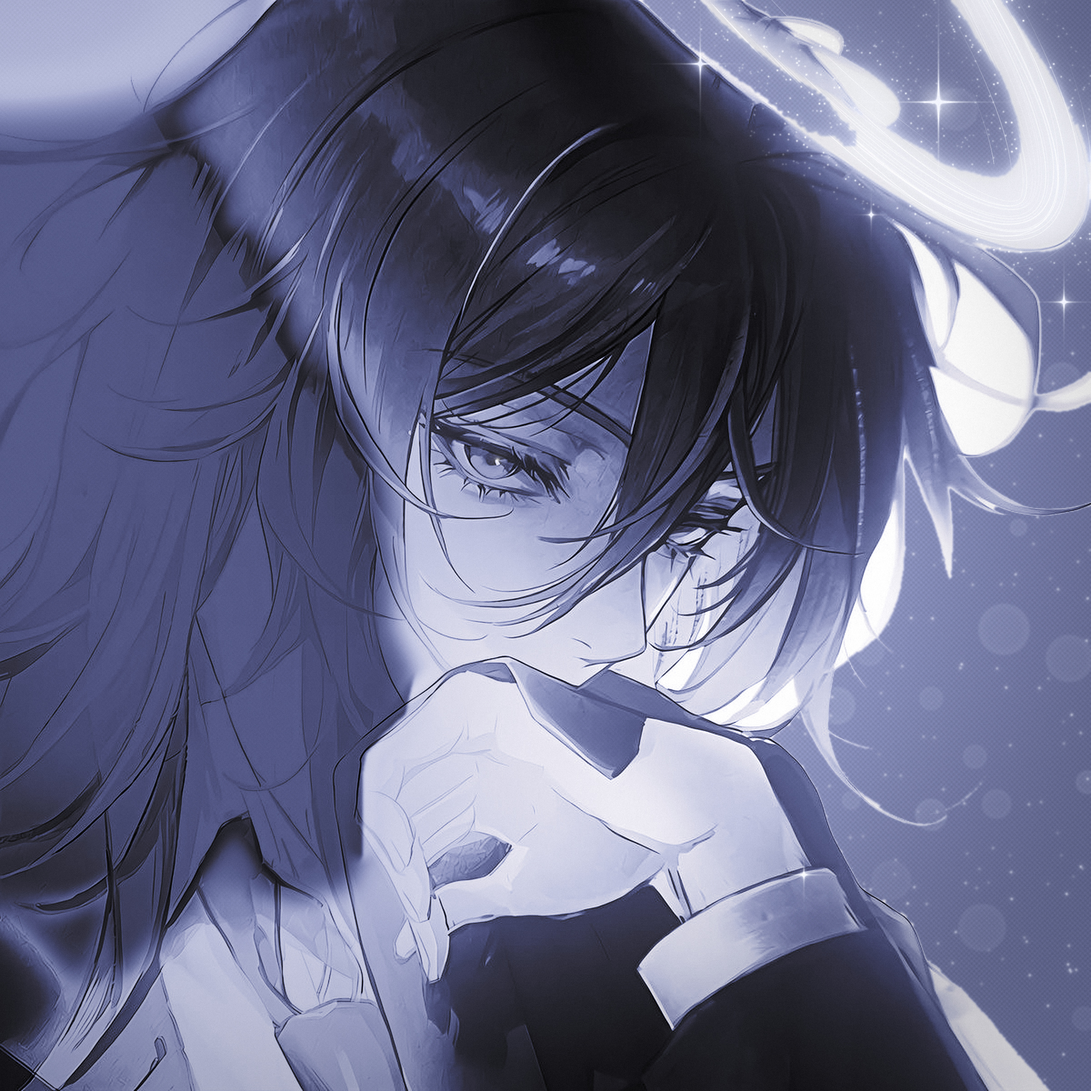
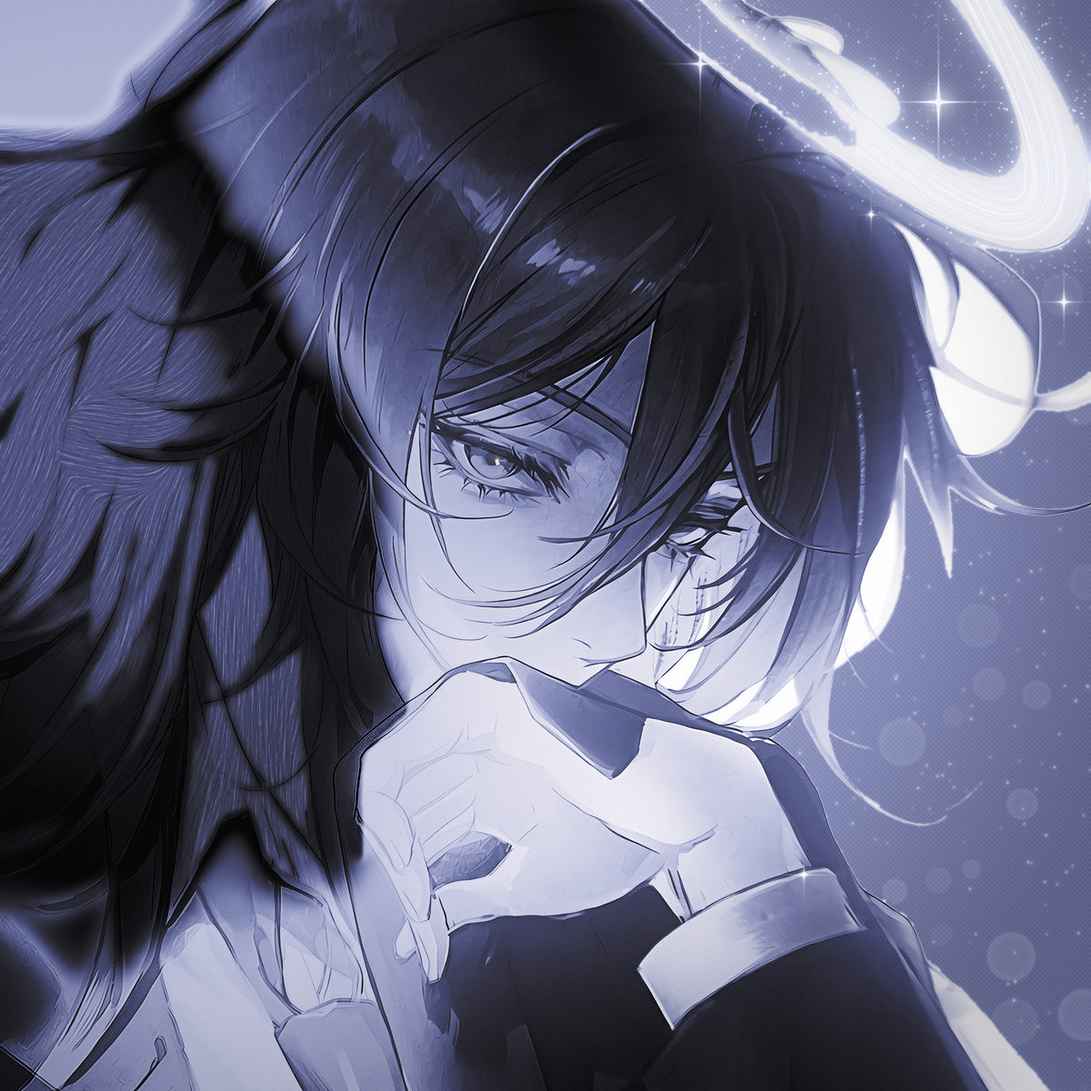
Anime art: paint the left hair as real dark hair
The user asked for the hair colour to be completed in a better way. The
previous pass darkened the backlit left hair with one tone curve, which
left it flat (5th-95th percentile 0.25-0.36), lighter than the crown
(median 0.33 vs 0.21) and with a lavender blob cut into the top-left.
The original there is blown-out white with only drawn lines, so the
shading has to be built:

- Hair area from strand texture (edge density, gaps up to 40 px closed,
  sky gaps under 8000 px treated as hair), still sharp along the hand.
- Volume: each clump darkens towards its drawn lines through a blurred
  line field (a distance to the dashed faint strokes made bead chains),
  lit through its middle, lighter towards the light and the outer edge.
- Detail: drawn lines redrawn crisp; fine fibres by line integral
  convolution along a structure-tensor flow smoothed at sigma 90 (at 8
  and 36 the flow wandered into mazes and a vortex in the wide clumps);
  soft glossy streaks in clump middles; rim light on the outer strands.

Left hair is now 0.05 / 0.23 / 0.39 (5th / 50th / 95th) against the
crown's 0.12 / 0.21 / 0.36.

Claude-Session: https://claude.ai/code/session_01R1ufdM6Gy46JF29dPHPPpt

Changed region(s): [[0.0, 0.0, 0.4062, 0.9062]]

diff --git a/halo/beautify.py b/halo/beautify.py
@@ -4,10 +4,16 @@
 1. Resolution: the picture is enlarged 2x (Lanczos, mild unsharp mask) and
    everything below is drawn natively at that size; masks are found at 1x.
 2. Hair colour and highlights on the left: the long hair there was backlit to
-   white. Inside HAIR_POLY (sharp along the hand's drawn outline, soft elsewhere,
-   fading out towards the sky in the top-left corner) it takes the dark hair's
-   tones, HAIR_K * L^HAIR_G, weighted by how light the hair is locally, so it
-   blends into the dark hair. Elsewhere the highlights there were half pure white. Its
+   white, with no shading, only drawn lines. It becomes dark hair like the crown:
+   - where: wherever the picture has strand texture (gaps inside closed up, so
+     wide clumps count), inside HAIR_POLY, sharp along the hand's drawn outline;
+   - volume: each clump darkens towards its drawn lines and is lit through its
+     middle; a little lighter towards the light and the hair's outer edge;
+   - detail: the drawn lines redrawn crisp, fine hair fibres following the way
+     the strands run (line integral convolution over a smooth structure-tensor
+     flow), soft glossy streaks, and a rim light on the outer strands;
+   - weighted by how light the hair is locally, so it blends into the dark hair.
+   Elsewhere the highlights there were half pure white. Its
    strands are still in the original's top tones (and in its blue channel,
    which clips far less), so those tones are rolled off from LEFT_KNEE up to
    LEFT_TOP with a shoulder that spreads them out instead of flattening them,
@@ -67,10 +73,19 @@ HAIR_POLY = [(300, 0), (0, 0), (0, 1080), (130, 1075), (240, 975), (330, 990), (
              (360, 380), (310, 250), (282, 120)]
 # the drawn outline of the hand: the hair edge is sharp only along it
 HAND_LINE = [(560, 722), (500, 740), (470, 760), (445, 785), (420, 808), (402, 828), (398, 850), (398, 925)]
-# the top-left corner is sky with a few strands: the hair fades out towards it over
-# a wide soft gradient (ellipse radii in px), so no hard edge separates them
-CORNER = (260.0, 110.0, 0.5, 1.6)
-HAIR_K, HAIR_G = 0.40, 1.8
+# the hair itself is where the picture has strand texture (edge density), so it ends
+# where the strands end and the sky begins, with no drawn edge there
+HAIR_DENSITY = 0.012       # edge density that counts as strands
+HAIR_CLOSE = 40             # px: wide strands with no lines inside the hair are hair too
+SKY_MIN = 8000              # px: smaller gaps left between the strands are hair as well
+# backlit dark hair: tone deep inside the hair / at its lit outer edge and towards the
+# light (before the S-curve), rim light on the outer strands and its reach (px)
+HAIR_BASE = (0.21, 0.30)
+RIM, RIM_REACH = 0.55, 22.0
+CLUMP_PX = 10.0             # px over which a clump darkens towards its drawn lines
+CLUMP_DARK = 0.35           # line density that counts as fully in shadow
+LINE_INK = 0.55             # how dark the drawn strand lines read
+FIBRE, SHEEN = 0.06, 0.12   # fine hair texture, and its glossy streaks
 
 
 def masks(L):
@@ -128,6 +143,37 @@ def halo_strands(shape, rng):
     return full(np.clip(inner, 0, 1)), full(np.clip(stray, 0, 1))
 
 
+def hair_fibres(Ld, region, rng, steps=30, sigma=90.0):
+    """Fine hair texture: noise smeared along the direction the strands run (line
+    integral convolution over the structure-tensor flow), zero mean, unit spread."""
+    ys, xs = np.nonzero(region)
+    y0, y1, x0, x1 = ys.min(), ys.max() + 1, xs.min(), xs.max() + 1
+    img = Ld[y0:y1, x0:x1]
+    g = ndimage.gaussian_filter(img, 1.5)
+    ix, iy = ndimage.sobel(g, 1), ndimage.sobel(g, 0)
+    jxx, jxy, jyy = (ndimage.gaussian_filter(a_, sigma) for a_ in (ix * ix, ix * iy, iy * iy))
+    theta = 0.5 * np.arctan2(2 * jxy, jxx - jyy) + 0.5 * np.pi   # along the strands
+    vx, vy = np.cos(theta), np.sin(theta)
+    noise = ndimage.gaussian_filter(rng.uniform(-1.0, 1.0, img.shape), 0.7)
+    hh, ww = img.shape
+    acc = noise.copy()
+    for sign in (1.0, -1.0):
+        py, px = np.mgrid[0:hh, 0:ww].astype(np.float64)
+        dx, dy = sign * vx, sign * vy
+        for _ in range(steps):
+            px, py = np.clip(px + dx, 0, ww - 1), np.clip(py + dy, 0, hh - 1)
+            nx = ndimage.map_coordinates(vx, [py, px], order=1)
+            ny = ndimage.map_coordinates(vy, [py, px], order=1)
+            flip = np.where(nx * dx + ny * dy < 0, -1.0, 1.0)           # keep heading the same way
+            dx, dy = nx * flip, ny * flip
+            acc += ndimage.map_coordinates(noise, [py, px], order=1)
+    acc -= ndimage.gaussian_filter(acc, 6.0)                         # keep the fine fibres only
+    acc /= acc.std() + 1e-9
+    out = np.zeros_like(Ld)
+    out[y0:y1, x0:x1] = acc
+    return out
+
+
 def main():
     picture, edit, source, output = sys.argv[1:5]
     P1 = load(picture)
@@ -140,6 +186,8 @@ def main():
     P = up(P1, (W, H))
     P = np.clip(P + 0.45 * (P - eh.gauss(P, 1.2)), 0.0, 1.0)
     L0 = P @ wh.LW
+    yy, xx = np.mgrid[0:H, 0:W].astype(np.float64)
+    X, Y = xx / S, yy / S                                            # 1x coordinates
     hair_poly = Image.new("L", (W1, H1), 0)
     ImageDraw.Draw(hair_poly).polygon(HAIR_POLY, fill=255)
     hair_poly = up(np.asarray(hair_poly, np.float64) / 255.0, (W, H))
@@ -150,16 +198,23 @@ def main():
     ImageDraw.Draw(line).line([(x * S, y * S) for x, y in HAND_LINE], fill=255, width=2)
     near = ss(28.0 * S, 10.0 * S, ndimage.distance_transform_edt(np.asarray(line) == 0))
     hair_poly = (1.0 - near) * eh.gauss(hair_poly, 12.0 * S) + near * eh.gauss(hair_poly, 1.5 * S)
-    cr, cyr, c0, c1 = CORNER
-    hair_poly = hair_poly * ss(c0, c1, np.hypot(gx / cr, gy / cyr))
+    L1x = P1 @ wh.LW
+    grad = np.hypot(ndimage.sobel(ndimage.gaussian_filter(L1x, 0.8), 0), ndimage.sobel(ndimage.gaussian_filter(L1x, 0.8), 1))
+    present = ndimage.gaussian_filter(ndimage.gaussian_filter(grad, 14.0), 10.0) > HAIR_DENSITY
+    r_ = HAIR_CLOSE
+    disk = np.hypot(*np.mgrid[-r_:r_ + 1, -r_:r_ + 1]) <= r_
+    present = ndimage.binary_closing(np.pad(present, r_ + 5, mode="edge"), structure=disk)[r_ + 5:-r_ - 5, r_ + 5:-r_ - 5]
+    sky, n_sky = ndimage.label(~present)
+    sizes = ndimage.sum(np.ones_like(L1x), sky, range(1, n_sky + 1))
+    present = ~np.isin(sky, 1 + np.nonzero(sizes >= SKY_MIN)[0])
+    present = ndimage.gaussian_filter(present.astype(np.float64), 6.0)   # a soft edge to the sky
+    hair_poly = hair_poly * np.clip(up(present, (W, H)), 0.0, 1.0)
     bg_raw = up(bg1.astype(np.float64), (W, H)) > 0.5
     bg = bg_raw & (hair_poly < 0.5)                                  # blown-out hair is not sky
     # how much the sky treatment applies: soft, fading out wherever the hair fades in
     bgw = (eh.gauss(ndimage.binary_dilation(bg_raw, iterations=S).astype(np.float64), S)
            * ss(0.80, 0.97, L0) * (1.0 - hair_poly))
     band = up(band1.astype(np.float64), (W, H)) > 0.5
-    yy, xx = np.mgrid[0:H, 0:W].astype(np.float64)
-    X, Y = xx / S, yy / S                                            # 1x coordinates
 
     # 2) highlights on the left: roll the top tones off with a spreading shoulder
     left = ss(0.62 * W1, 0.28 * W1, X)
@@ -170,11 +225,32 @@ def main():
     notbg = 1.0 - bgw
     Lr = L0 + left * notbg * (sh - L0)
 
-    # the light hair takes the dark hair's colour; how much depends on how light the
-    # hair is around each pixel (local mean), so it blends into the dark hair smoothly
-    hair_src = L0 + ss(0.5, 0.95, L0) * (Ld - L0)
+    # the light hair becomes backlit dark hair. Strand structure: the picture's own,
+    # normalised locally so every strand reads. Tone: like the crown, a little lighter
+    # towards the lit outer edge, with a rim light on the outer strands and gloss on
+    # the brightest ones. How much applies depends on how light the hair is around each
+    # pixel (local mean), so it blends into the dark hair smoothly
+    strand = ss(0.55, 1.0, Ld)                                       # fill 1, lines 0
+    # volume: each clump of hair between two drawn lines is rounded, dark by its lines
+    # and lit through its middle; wide clumps catch more light than narrow ones
+    # (a continuous field: the faint strokes are dashed, a distance to them is not)
+    near_lines = eh.gauss(ss(0.02, 0.15, 1.0 - Ld), CLUMP_PX * S / 2.0)
+    clump = 1.0 - ss(0.0, CLUMP_DARK, near_lines)
+    edge_in = ndimage.distance_transform_edt(hair_poly > 0.5) / S     # px from the hair's edge
+    lit = np.maximum(np.exp(-edge_in / 50.0), ss(0.42, 0.12, np.hypot(X - LIGHT[0], Y - LIGHT[1]) / W1))
+    base = HAIR_BASE[0] + (HAIR_BASE[1] - HAIR_BASE[0]) * lit
+    Lh = base * (0.45 + 0.80 * clump) * (0.55 + 0.45 * strand)
+    # the drawn strand lines, crisp, and fine hair fibres with glossy streaks where a
+    # clump catches the light
+    lines = ss(0.03, 0.18, 1.0 - Ld)
+    fib = hair_fibres(Ld, hair_poly > 0.3, rng)
+    Lh = Lh * (1.0 - LINE_INK * lines) * (1.0 + FIBRE * fib)
+    gloss = SHEEN * ss(0.55, 1.0, clump) * ss(0.6, 2.2, fib) * (1.0 - lines)
+    Lh = 1.0 - (1.0 - Lh) * (1.0 - gloss)
+    rim = RIM * strand ** 4 * np.exp(-edge_in / RIM_REACH)
+    Lh = 1.0 - (1.0 - Lh) * (1.0 - rim)
     hair_w = hair_poly * ss(0.45, 0.75, eh.gauss(L0, 12.0 * S))
-    Lr = Lr * (1.0 - hair_w) + hair_w * HAIR_K * hair_src ** HAIR_G
+    Lr = Lr * (1.0 - hair_w) + hair_w * Lh
 
     # 3) depth and local contrast
     L1 = np.interp(Lr, [0.0, 0.25, 0.5, 0.75, 1.0], [0.0, 0.2, 0.47, 0.76, 1.0])

diff --git a/halo/README.md b/halo/README.md
@@ -46,7 +46,7 @@
 
 لمسة فنية بنفس ستايل صورتك (`beautify.py`)، مرسومة بدقة مضاعفة:
 - **الجودة**: الصورة مكبّرة ×2 مع حدة خفيفة، وكل الإضافات مرسومة مباشرة على الدقة الكبيرة، فتطلع حادة. فيه نسخة JPEG أخف (`anime_art.jpg`، 2.1 ميجا).
-- **لون الشعر كامل**: الشعر الطويل اللي على اليسار كان أبيض من الإضاءة، والحين صار بنفس لون الشعر الغامق (كحلي وبنفسجي مزرق) وخصله واضحة. يندمج بنعومة مع باقي الشعر، وحدّه يمشي مع رسمة اليد بالضبط، ويخف بشويش جهة السما فوق.
+- **لون الشعر كامل**: الشعر الطويل اللي على اليسار كان أبيض من الإضاءة وبدون ظلال. صار شعر غامق بنفس درجة الشعر اللي فوق الراس، ولكل خصلة حجم (تغمق عند حدودها وتنوّر في نصها)، ومعه نقشة شعر ناعمة تمشي مع اتجاه الخصل، ولمعات خفيفة، وإضاءة خلفية على الأطراف اللي جهة السما. حدّه يمشي مع رسمة اليد بالضبط ويوقف عند السما.
 - **الوميض اللي على اليسار صار هادي**: الشعر اللي على اليسار كان نصه أبيض صافي، والحين ما فيه أي جزء فوق 85% سطوع. رجعت تفاصيل الخصل اللي كانت مخفية في البياض، والخلفية هناك لافندر هادي. التوهج والبوكيه والنقاط بعيدة عن هالجهة.
 - **الخلفية**: سما بنفسجي مزرق، أفتح شوي جهة الضوء على اليسار ويغمق كل ما بعدنا عنه. نقاط الطباعة بس في الأجزاء الغامقة.
 - **الحلقة**: تتوهج، ومكونة من خيوط نور رفيعة زي حلقتك، وحولها كم خيط طاير. معها نجوم بأربع أطراف ولمعات صغيرة.
